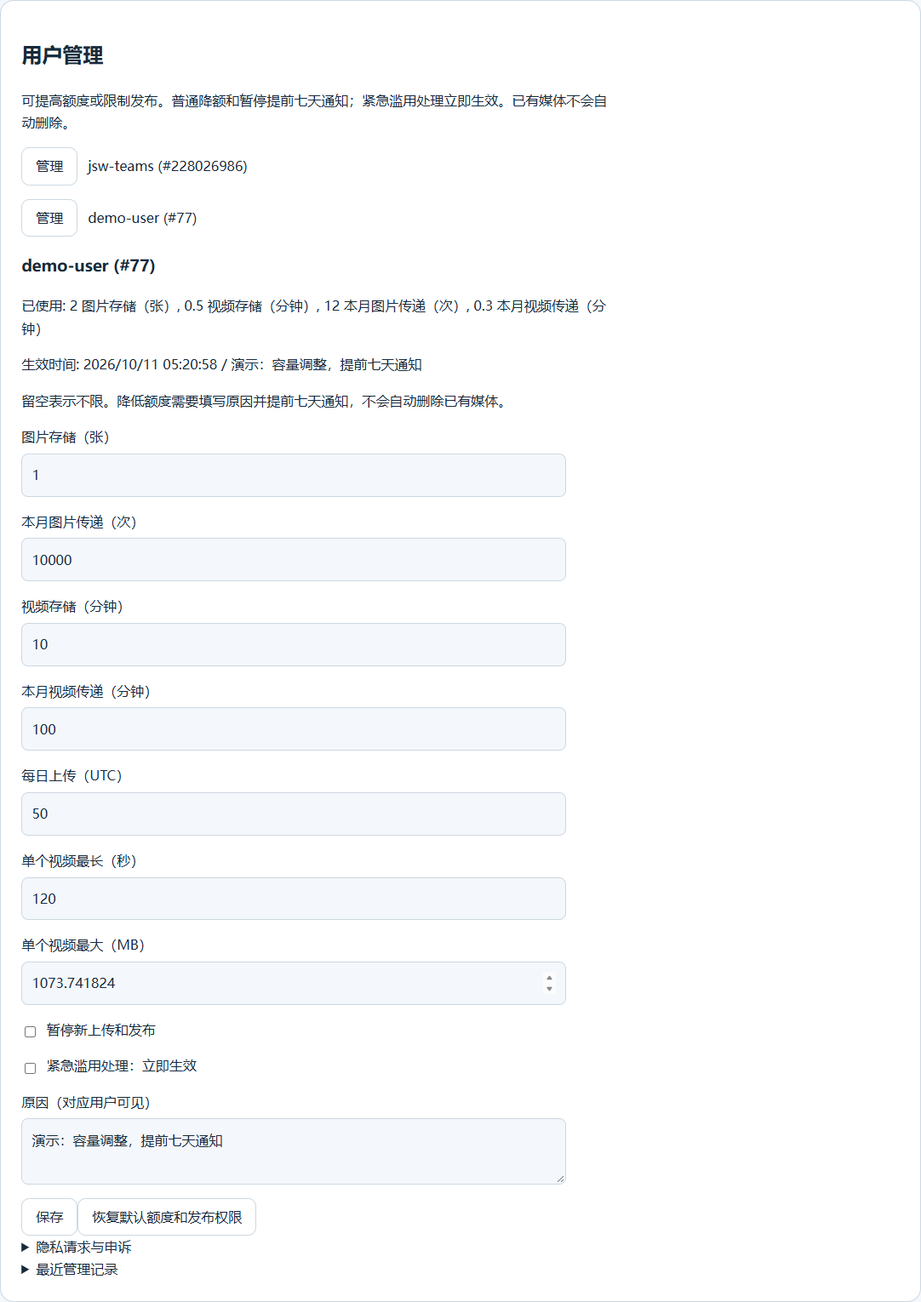
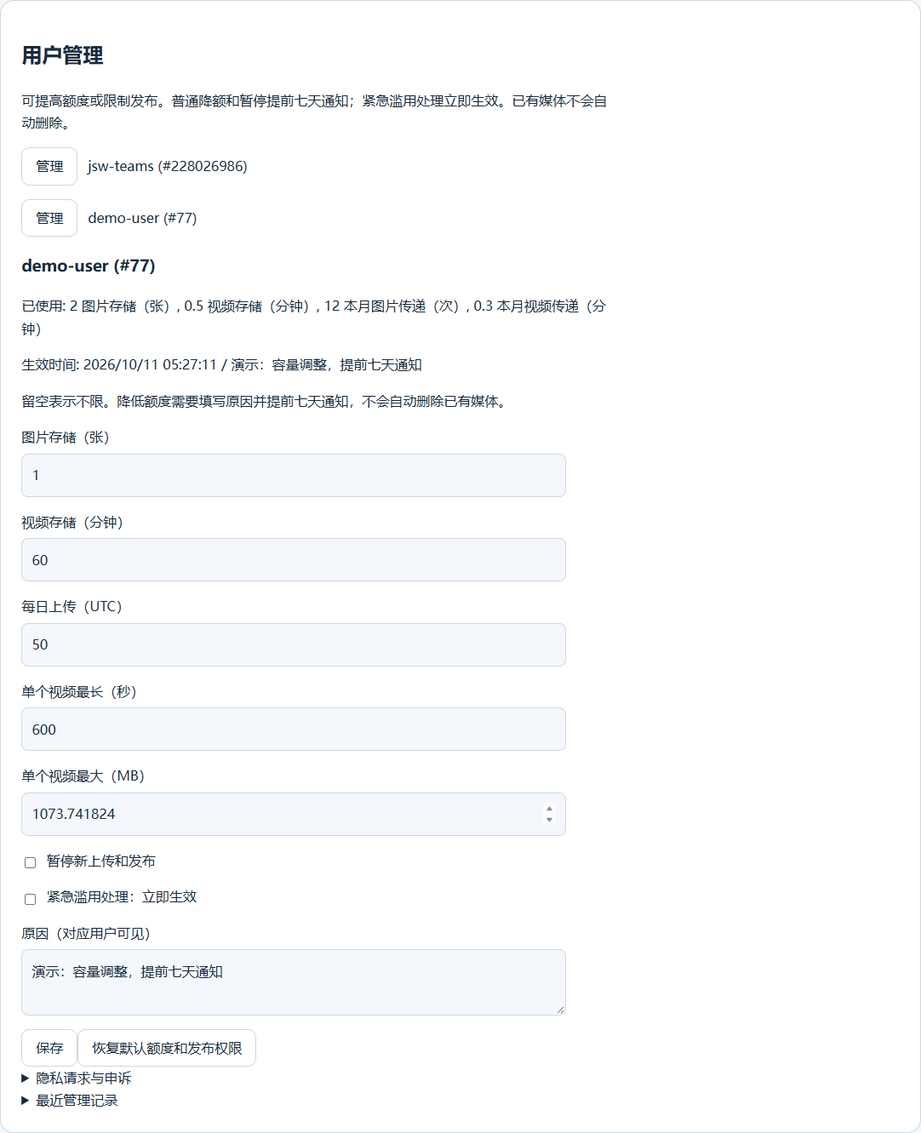
Allow ordinary delivery and increase personal media storage quotas

Changed region(s): [[0.0, 0.0308, 0.671, 0.9857], [0.5185, 0.2156, 0.6405, 0.2772]]

diff --git a/static/privacy.html b/static/privacy.html
@@ -1,1 +1,1 @@
-<!doctype html><html lang="zh-CN"><head><meta charset="utf-8"><meta name="viewport" content="width=device-width,initial-scale=1"><title>隐私 | ishare</title><link rel="stylesheet" href="{{style}}"></head><body><a class="skip" href="#main">跳至正文</a><header class="topbar"><a class="brand" href="/">ishare</a></header><main id="main" class="panel"><h1>隐私与分享</h1><p>发布需要 GitHub 登录。本站保存 GitHub 数字用户 ID、用户名与显示名称以确认发布与删除权限，不索取 GitHub 邮箱或代码仓库权限。GitHub 身份不代表已核实来源网站所有权。</p><p>图片、视频、标题、配文、作者与填写的来源页面会公开显示。请勿上传没有分享权利或包含不应公开信息的媒体。浏览者可以下载或另行转载公开内容。</p><p>媒体存储与编码由 Cloudflare Images / Stream 处理。上传文件时，浏览器会向 Cloudflare 的一次性上传地址发送媒体和必要网络信息；分享与播放使用本站媒体地址。</p><p>登录凭据使用安全的 HttpOnly Cookie，最长一天，到期或退出后失效。OAuth 状态最长十分钟且只能使用一次。服务为限制滥用使用短期哈希限流记录，不将 IP 原值保存为公开媒体资料。未完成的已知上传保留至清理任务删除，通常在一天后清理；无法确认上游是否完成的上传需管理员核对。</p><p>发布者可在媒体列表删除自己发布的内容。管理员可以移除违规内容。已缓存的公开媒体最长还可能显示五分钟；其他网站自行保存的副本不受本站控制。每日限额所需的删除记录最多保留三十天，不保留媒体字节。管理记录与已答复隐私请求最长保存九十天；账户删除完成时会提前清除关联个人资料。</p><p>额度按图片存储张数、每月图片传递次数、视频储存时长与每月视频传递时长分别计算；预加载和重复请求会消耗传递额度。降低额度或普通暂停需要明确原因并提前七天站内通知，紧急滥用可立即暂停新上传与发布，均不会自动删除既有媒体。暂停发布仍可导出 JSON 资料、删除本人媒体或账户、申请更正及人工复核。导出不包含原始视频文件。</p><p>隐私请求在后台显示一个日历月的答复期限，需要运营者实际处理。账户删除会立即停止已知媒体的公开访问，随后删除上游媒体、账户与关联个人记录；上游失败会重试，无法确认的上传需人工核对。未完成时会标为正在删除，不自动认定删除成功。</p><p>为提供你请求的登录、发布与分享服务，我们处理必要的身份与媒体资料；最小限度的限流和管理记录用于防止滥用。GitHub 与 Cloudflare 按各自政策处理必要网络信息，服务可能在全球节点处理数据。你可要求查阅、更正、删除或限制处理、提出异议，并联系适用的数据保护监管机构。运营者需要依据适用地区法律履行告知、供应商安排与权利请求处理义务。</p><p>本机只保存语言选择，不含广告或统计追踪。嵌入网站应在访客同意且请求查看后加载本站媒体。</p><p>管理者：JS.GRIPE。隐私与内容移除请求请在登录后的“我的数据与权利”提交，或邮件联系 <a href="mailto:helper@js.gripe">helper@js.gripe</a>，无需在公开问题页提供私人资料。</p><h2 lang="en">English</h2><p lang="en">ishare uses your numeric GitHub identity, username and display name for publishing and ownership. Published media and attribution are public. Files upload directly to Cloudflare; viewing uses this site's proxy. Session cookies expire after one day, OAuth state after ten minutes. You can delete your own media; cached copies can remain for up to five minutes. Public media can be downloaded and copied. Quotas distinguish image counts, image deliveries, stored video duration and delivered segment duration. Ordinary reductions are announced seven days in advance; urgent abuse restrictions do not remove export, deletion or appeal rights. Account erasure stops known public media, removes provider resources and then scrubs personal records; failed removals remain pending. Privacy requests have a calendar-month response deadline and need actual operator review. Identifiable administration and answered request records expire after ninety days, earlier on completed account erasure. Contact JS.GRIPE at helper@js.gripe. No advertising or analytics are included.</p></main></body></html>
+<!doctype html><html lang="zh-CN"><head><meta charset="utf-8"><meta name="viewport" content="width=device-width,initial-scale=1"><title>隐私 | ishare</title><link rel="stylesheet" href="{{style}}"></head><body><a class="skip" href="#main">跳至正文</a><header class="topbar"><a class="brand" href="/">ishare</a></header><main id="main" class="panel"><h1>隐私与分享</h1><p>发布需要 GitHub 登录。本站保存 GitHub 数字用户 ID、用户名与显示名称以确认发布与删除权限，不索取 GitHub 邮箱或代码仓库权限。GitHub 身份不代表已核实来源网站所有权。</p><p>图片、视频、标题、配文、作者与填写的来源页面会公开显示。请勿上传没有分享权利或包含不应公开信息的媒体。浏览者可以下载或另行转载公开内容。</p><p>媒体存储与编码由 Cloudflare Images / Stream 处理。上传文件时，浏览器会向 Cloudflare 的一次性上传地址发送媒体和必要网络信息；分享与播放使用本站媒体地址。</p><p>登录凭据使用安全的 HttpOnly Cookie，最长一天，到期或退出后失效。OAuth 状态最长十分钟且只能使用一次。服务为限制滥用使用短期哈希限流记录，不将 IP 原值保存为公开媒体资料。未完成的已知上传保留至清理任务删除，通常在一天后清理；无法确认上游是否完成的上传需管理员核对。</p><p>发布者可在媒体列表删除自己发布的内容。管理员可以移除违规内容。已缓存的公开媒体最长还可能显示五分钟；其他网站自行保存的副本不受本站控制。每日限额所需的删除记录最多保留三十天，不保留媒体字节。管理记录与已答复隐私请求最长保存九十天；账户删除完成时会提前清除关联个人资料。</p><p>额度按图片存储张数、每月图片传递次数、视频储存时长与每月视频传递时长分别计算；图片传递次数与视频传递时长用于后台用量统计，不设置常规传递额度；预加载和重复请求也会记入统计。降低额度或普通暂停需要明确原因并提前七天站内通知，紧急滥用可立即暂停新上传与发布，均不会自动删除既有媒体。暂停发布仍可导出 JSON 资料、删除本人媒体或账户、申请更正及人工复核。导出不包含原始视频文件。</p><p>隐私请求在后台显示一个日历月的答复期限，需要运营者实际处理。账户删除会立即停止已知媒体的公开访问，随后删除上游媒体、账户与关联个人记录；上游失败会重试，无法确认的上传需人工核对。未完成时会标为正在删除，不自动认定删除成功。</p><p>为提供你请求的登录、发布与分享服务，我们处理必要的身份与媒体资料；最小限度的限流和管理记录用于防止滥用。GitHub 与 Cloudflare 按各自政策处理必要网络信息，服务可能在全球节点处理数据。你可要求查阅、更正、删除或限制处理、提出异议，并联系适用的数据保护监管机构。运营者需要依据适用地区法律履行告知、供应商安排与权利请求处理义务。</p><p>本机只保存语言选择，不含广告或统计追踪。嵌入网站应在访客同意且请求查看后加载本站媒体。</p><p>管理者：JS.GRIPE。隐私与内容移除请求请在登录后的“我的数据与权利”提交，或邮件联系 <a href="mailto:helper@js.gripe">helper@js.gripe</a>，无需在公开问题页提供私人资料。</p><h2 lang="en">English</h2><p lang="en">ishare uses your numeric GitHub identity, username and display name for publishing and ownership. Published media and attribution are public. Files upload directly to Cloudflare; viewing uses this site's proxy. Session cookies expire after one day, OAuth state after ten minutes. You can delete your own media; cached copies can remain for up to five minutes. Public media can be downloaded and copied. Storage quotas distinguish image counts and stored video duration; image deliveries and delivered segment duration are monitored without ordinary viewer quotas. Ordinary reductions are announced seven days in advance; urgent abuse restrictions do not remove export, deletion or appeal rights. Account erasure stops known public media, removes provider resources and then scrubs personal records; failed removals remain pending. Privacy requests have a calendar-month response deadline and need actual operator review. Identifiable administration and answered request records expire after ninety days, earlier on completed account erasure. Contact JS.GRIPE at helper@js.gripe. No advertising or analytics are included.</p></main></body></html>

diff --git a/backend/cloudflare/store.js b/backend/cloudflare/store.js
@@ -42,7 +42,7 @@ export class Repository {
   setAccount(owner,change,actor,ownerId,now,base) {return this.atomic(()=>{if(owner===ownerId)fail('owner_protected',409);const row=this.activate(owner,now);if(!row)fail('not_found',404);const current={...base,...JSON.parse(row.policy)},next=change.reset?{}:{...JSON.parse(row.policy),...change.limits},target={...base,...next},blocked=change.blocked===undefined?!!row.blocked:change.blocked;const reducing=(blocked&&!row.blocked)||Object.keys(current).some(key=>target[key]!==null&&(current[key]===null||target[key]<current[key]));const effective=reducing&&!change.urgent?now+604800:now;this.sql.exec('UPDATE users SET policy=?,blocked=?,note=?,updated=?,pending=?,effective=? WHERE id=?',effective>now?row.policy:JSON.stringify(next),effective>now?row.blocked:Number(blocked),change.note,now,effective>now?JSON.stringify({limits:next,blocked}):null,effective>now?effective:null,owner);this.sql.exec('INSERT INTO audit(actor,target,changes,created) VALUES (?,?,?,?)',actor,owner,JSON.stringify({...change,effective}),now);return {ok:true,effective};});}
   audit() {return [...this.sql.exec('SELECT actor,target,changes,created FROM audit ORDER BY id DESC LIMIT 50')].map(row=>({...row,changes:JSON.parse(row.changes)}));}
   assertPublisher(owner,ownerId) {const row=this.activate(owner,Math.floor(Date.now()/1000));if(row?.erasing||(owner!==ownerId&&row?.blocked))fail('publishing_suspended',403);}
-  delivery(owner,kind,amount,base,ownerId,globalMax,now) {return this.atomic(()=>{if(owner===ownerId)return;const user=this.account(owner,base,ownerId,now),month=new Date(now*1000).toISOString().slice(0,7),key='delivery:'+kind+':'+owner+':'+month,global='delivery:'+kind+':all:'+month,max=kind==='image'?user.limits.imageDeliveries:user.limits.videoDeliverySeconds,scale=kind==='image'?1:1000,n=Math.ceil(amount*scale);if(exceeds((this.one('SELECT count FROM limits WHERE id=?',key)?.count||0)+n,max===null?null:max*scale)||exceeds((this.one('SELECT count FROM limits WHERE id=?',global)?.count||0)+n,globalMax*scale))fail('delivery_quota',429);for(const k of [key,global])this.sql.exec('INSERT INTO limits VALUES (?,?,?) ON CONFLICT(id) DO UPDATE SET count=count+excluded.count',k,n,now+5356800);});}
+  delivery(owner,kind,amount,now) {return this.atomic(()=>{const month=new Date(now*1000).toISOString().slice(0,7),scale=kind==='image'?1:1000,n=Math.ceil(amount*scale);for(const key of ['delivery:'+kind+':'+owner+':'+month,'delivery:'+kind+':all:'+month])this.sql.exec('INSERT INTO limits VALUES (?,?,?) ON CONFLICT(id) DO UPDATE SET count=count+excluded.count',key,n,now+5356800);});}
   rights(owner){return [...this.sql.exec('SELECT * FROM rights WHERE owner=? ORDER BY created DESC LIMIT 100',owner)];}
   requestRight(owner,kind,message,now){return this.atomic(()=>{const id=random(),due=monthDue(now);this.sql.exec("INSERT INTO rights(id,owner,kind,message,state,created,due) VALUES (?,?,?,?,'open',?,?)",id,owner,kind,message,now,due);return {id,due};});}
   rightsQueue(){return [...this.sql.exec("SELECT * FROM rights WHERE state='open' ORDER BY due LIMIT 100")];}

diff --git a/static/app.js b/static/app.js
@@ -40,7 +40,7 @@ async function refresh(){
   try{session=await api('session');document.querySelector('#login').hidden=!session.loginAvailable||!!session.user;document.querySelector('#logout').hidden=!session.user;
     document.querySelector('#identity').textContent=session.user?'@'+session.user.login:'';
     form.querySelector('fieldset').disabled=!session.canPublish||(!session.imagesAvailable&&!session.videosAvailable)||!!controller;
-    document.querySelector('#limits').textContent=session.user?(session.account.unlimited?t('unlimited'):t('images')+': '+session.account.usage.images+' / '+(session.account.limits.images??t('unlimited'))+'; '+t('videoSeconds')+': '+(session.account.usage.videoSeconds/60).toFixed(1)+' / '+(session.account.limits.videoSeconds===null?t('unlimited'):session.account.limits.videoSeconds/60)+'; '+t('imageDeliveries')+': '+session.account.usage.imageDeliveries+' / '+(session.account.limits.imageDeliveries??t('unlimited'))+'; '+t('videoDeliverySeconds')+': '+(session.account.usage.videoDeliverySeconds/60).toFixed(1)+' / '+(session.account.limits.videoDeliverySeconds===null?t('unlimited'):session.account.limits.videoDeliverySeconds/60)):'';
+    document.querySelector('#limits').textContent=session.user?(session.account.unlimited?t('unlimited'):t('images')+': '+session.account.usage.images+' / '+(session.account.limits.images??t('unlimited'))+'; '+t('videoSeconds')+': '+(session.account.usage.videoSeconds/60).toFixed(1)+' / '+(session.account.limits.videoSeconds===null?t('unlimited'):session.account.limits.videoSeconds/60)):'';
     if(session.user){const data=await api('list');items=data.items;next=data.next;render(items);}else{items=[];next=null;render(items);}
     document.querySelector('#more').hidden=!next;management.update(session);rights.update(session);
     const accountNotice=document.querySelector('#account-notice');accountNotice.hidden=!session.account?.note&&!session.account?.erasing;accountNotice.textContent=session.account?.erasing?t('erasePending'):(session.account?.note||'')+(session.account?.notice?' / '+t('scheduled')+': '+new Date(session.account.notice.effective*1000).toLocaleString():'');

diff --git a/backend/cloudflare/service.js b/backend/cloudflare/service.js
@@ -1,4 +1,4 @@
-import { ServiceError, fail, origin, https, text, number, id, random, digest, jsonBody, json } from './security.js';
+import { ServiceError, fail, origin, https, text, number, id, digest, jsonBody, json } from './security.js';
 import { authReady, readSession, requireSite, requireCsrf, authorize, callback, logout } from './auth.js';
 import { provider, resourceConfiguration } from './provider.js';
 import { publicRecord, oembed, shareId, renderPage } from './views.js';
@@ -97,7 +97,7 @@ export async function handle(request,env,context,{requestProvider=fetch,requestG
       const sourceUrl=body.sourceUrl?https(body.sourceUrl).href:'';
       const title=text(body.title,200),caption=text(body.caption,5000,true),sourceName=text(body.sourceName,120,true);
       const applicationId=crypto.randomUUID().replaceAll('-','');
-      const item=await store.reserve({id:applicationId,owner:session.user.id,author:session.user,kind:body.kind,title,caption,sourceUrl,sourceName,bytes,mime:body.mime,duration},{defaults:base,ownerId:env.OWNER_GITHUB_ID,images:number(env.MAX_IMAGES,1000,100000),videoSeconds:number(env.MAX_VIDEO_SECONDS,3600,10000000),daily:number(env.MAX_UPLOADS_PER_DAY,500,10000)},now);
+      const item=await store.reserve({id:applicationId,owner:session.user.id,author:session.user,kind:body.kind,title,caption,sourceUrl,sourceName,bytes,mime:body.mime,duration},{defaults:base,ownerId:env.OWNER_GITHUB_ID,images:number(env.MAX_IMAGES,10000,100000),videoSeconds:number(env.MAX_VIDEO_SECONDS,36000,10000000),daily:number(env.MAX_UPLOADS_PER_DAY,500,10000)},now);
       try{const grant=await upstream.create(item,now);await store.attach(applicationId,grant.providerId,grant.uploadUrl,now);return json({id:applicationId,uploadUrl:grant.uploadUrl,protocol:grant.protocol},201);}catch(error){if(error.safeToRelease)await store.failed(applicationId);else await store.uncertain(applicationId);throw error;}
     }
     const mediaId=id(resource(request)),item=await store.get(mediaId);

diff --git a/backend/cloudflare/delivery.js b/backend/cloudflare/delivery.js
@@ -1,6 +1,5 @@
 import { b64, unb64, digest, fail, headers } from './security.js';
 import { imageAddress, videoAddress } from './provider.js';
-import { defaults } from './quotas.js';
 const encoder=new TextEncoder();
 async function key(secret){return crypto.subtle.importKey('raw',unb64(secret),'AES-GCM',false,['encrypt','decrypt']);}
 export function upstreamUrl(value,base,env) {
@@ -57,7 +56,7 @@ export async function deliver(request,env,item,resource,store,context,{requestUp
   }
   const range=request.headers.get('range');if(range&&!/^bytes=\d+-\d*$/.test(range))fail('invalid_range',416);
   if(request.method==='HEAD')return new Response(null,{headers:headers({'Content-Type':manifest?'application/vnd.apple.mpegurl':item.kind==='image'?item.mime||'image/jpeg':'application/octet-stream','Cache-Control':'no-store'},true)});
-  if(request.method!=='HEAD'&&(item.kind==='image'||upstream.ishareSeconds>0))await store.delivery(item.owner,item.kind,item.kind==='image'?1:upstream.ishareSeconds,defaults(env),env.OWNER_GITHUB_ID,Number(item.kind==='image'?env.MAX_IMAGE_DELIVERIES||100000:env.MAX_VIDEO_DELIVERY_SECONDS||60000),now);
+  if(item.kind==='image'||upstream.ishareSeconds>0)await store.delivery(item.owner,item.kind,item.kind==='image'?1:upstream.ishareSeconds,now);
   // Internal cache identities omit expiring signatures; upstream content is immutable per media ID.
   const path=item.kind==='video'?upstream.pathname.split('/').slice(2).join('/')+'?'+upstream.searchParams.toString():'blob';
   const cacheKey=new Request(new URL('/__ishare-cache/'+item.id+'/'+await digest(path),env.SITE_ORIGIN));

diff --git a/backend/cloudflare/quotas.js b/backend/cloudflare/quotas.js
@@ -1,13 +1,13 @@
 import { fail } from './security.js';
 
-export const quotaFields=['images','imageDeliveries','videoSeconds','videoDeliverySeconds','dailyUploads','videoDuration','videoBytes'];
+export const quotaFields=['images','videoSeconds','dailyUploads','videoDuration','videoBytes'];
 export function defaults(env={}) {
-  const values={images:300,imageDeliveries:10000,videoSeconds:600,videoDeliverySeconds:6000,dailyUploads:50,videoDuration:120,videoBytes:1_073_741_824};
+  const values={images:1000,videoSeconds:3600,dailyUploads:50,videoDuration:600,videoBytes:1_073_741_824};
   for(const key of quotaFields)if(env['QUOTA_'+key]!==undefined){const n=Number(env['QUOTA_'+key]);if(!Number.isSafeInteger(n)||n<0)fail('invalid_configuration',503);values[key]=n;}
   return values;
 }
 export function policy(record,base,owner=false) {
-  return {blocked:owner?false:!!record?.blocked,unlimited:owner,limits:owner?Object.fromEntries(quotaFields.map(k=>[k,null])):{...base,...JSON.parse(record?.policy||'{}')}};
+  const saved=JSON.parse(record?.policy||'{}');return {blocked:owner?false:!!record?.blocked,unlimited:owner,limits:owner?Object.fromEntries(quotaFields.map(k=>[k,null])):Object.fromEntries(quotaFields.map(k=>[k,Object.hasOwn(saved,k)?saved[k]:base[k]]))};
 }
 export function accountId(value){if(typeof value!=='string'||! /^[1-9][0-9]{0,19}$/.test(value))fail('invalid_user');return value;}
 export function changes(body){

diff --git a/static/admin.js b/static/admin.js
@@ -1,4 +1,4 @@
-const fields=[['images',1],['imageDeliveries',1],['videoSeconds',60],['videoDeliverySeconds',60],['dailyUploads',1],['videoDuration',1],['videoBytes',1_000_000]];
+const fields=[['images',1],['videoSeconds',60],['dailyUploads',1],['videoDuration',1],['videoBytes',1_000_000]];
 export function adminPanel({api,t,notice,refresh}){
   const root=document.querySelector('#admin'),users=document.querySelector('#admin-users'),editor=document.querySelector('#admin-editor'),more=document.querySelector('#admin-more');
   let active=false,cursor=null,isOwner=false;

diff --git a/docs/operations.md b/docs/operations.md
@@ -4,19 +4,19 @@
 
 | Application field | Ordinary-user default | Unit / reset |
 | --- | ---: | --- |
-| `images` | 300 | Stored image count; released after provider deletion succeeds |
-| `imageDeliveries` | 10,000 | Image responses requested from ishare, UTC calendar month |
-| `videoSeconds` | 600 | Stored/reserved video seconds, displayed as minutes |
-| `videoDeliverySeconds` | 6,000 | Requested HLS segment duration, displayed as minutes, UTC calendar month |
+| `images` | 1,000 | Stored image count; released after provider deletion succeeds |
+| `imageDeliveries` usage | No delivery cap | Image responses requested from ishare, UTC calendar month; operator monitoring only |
+| `videoSeconds` | 3,600 | Stored/reserved video seconds, displayed as minutes |
+| `videoDeliverySeconds` usage | No delivery cap | Requested HLS segment duration, displayed as minutes, UTC calendar month; operator monitoring only |
 | `dailyUploads` | 50 | Upload grants reserved per UTC day |
-| `videoDuration` | 120 | Maximum seconds per new video |
+| `videoDuration` | 600 | Maximum seconds per new video |
 | `videoBytes` | 1,073,741,824 | Maximum bytes per new video; a protocol limit, not a storage billing unit |
 
 Image count and video duration control storage costs. File byte size is shown as metadata and validated for uploads; it is not presented as the primary storage quota. Pending video grants reserve their maximum duration before contacting Stream. Publication replaces the reservation with the provider's rounded-up actual seconds. Unknown allocation outcomes retain reservations for operator reconciliation rather than generating duplicate resources.
 
-Image requests count once; HLS playlists, encryption keys, initialization data and HEAD probes do not count as video playback. Each media segment uses its authenticated playlist duration; replay, buffering, retries, range requests and parallel quality/audio tracks conservatively consume corresponding duration. Browser-cached requests never reaching ishare do not increment counters. Worker cache hits do increment user sharing usage. Failed requests can retain a delivery reservation. These conservative application counters are not a replacement for the Cloudflare bill, which measures its own delivery requests. Resource-account traffic outside ishare cannot be controlled by these counters. No API billing bypass or fixed currency ceiling is promised.
+Image requests count once; HLS playlists, encryption keys, initialization data and HEAD probes do not count as video playback. Each media segment uses its authenticated playlist duration; replay, buffering, retries, range requests and parallel quality/audio tracks conservatively record corresponding duration. Browser-cached requests never reaching ishare do not increment counters. Worker cache hits do increment user sharing usage. Failed requests can retain a delivery reservation. These conservative application counters are not a replacement for the Cloudflare bill, which measures its own delivery requests. Resource-account traffic outside ishare cannot be controlled by these counters. No API billing bypass or fixed currency ceiling is promised.
 
-The default shared non-operator budgets are 1,000 stored images, 3,600 stored/reserved video seconds, 500 uploads/day, 100,000 image deliveries/month, and 60,000 video delivery seconds/month. Operator resources and their delivery are excluded. Increase these alongside individual limits when capacity permits. Null individual limits mean unlimited; zero prevents that kind of new use. Lowering storage below current use preserves existing resources and blocks further allocation after the grace period.
+The default shared non-operator budgets are 10,000 stored images, 36,000 stored/reserved video seconds, and 500 uploads/day. Delivery counts and durations are monitored without per-user or shared delivery quota enforcement. Personal sites can share normally; storage ceilings, verified identities, allocation frequency and human abuse management bound resource stockpiling. These controls do not claim to prevent coordinated abuse using multiple real accounts. Operator resources and their delivery are excluded. Increase these alongside individual limits when capacity permits. Null individual limits mean unlimited; zero prevents that kind of new use. Lowering storage below current use preserves existing resources and blocks further allocation after the grace period.
 
 Private viewing uses the image blob API and signed Stream playback behind the proxy. Existing Images variants configured with `neverRequireSignedURLs: true` still bypass Cloudflare image signatures when someone knows their provider URL. ishare does not change another application's variants. Proxying hides upstream addresses from ordinary viewing; it cannot revoke an independently public provider URL or prevent a publisher from redistributing media.
 

diff --git a/README.md b/README.md
@@ -33,11 +33,11 @@ GitHub login needs `GITHUB_CLIENT_ID`, `GITHUB_CLIENT_SECRET` and callback `http
 
 ## Quotas and administration
 
-The ordinary-user defaults are 300 images stored, 10,000 images delivered per UTC month, 10 video minutes stored, 100 video minutes delivered per UTC month, 50 uploads per UTC day, 120 seconds per video, and 1 GiB per video. These are application policy defaults, not a Cloudflare free tier. The operator is exempt from all application quotas, including global application budgets. Provider upload/encoding limits still apply: Images accepts at most 10 MB and Stream files must be below 30 GB.
+The ordinary-user defaults are 1,000 images stored, 60 video minutes stored, 50 uploads per UTC day, 10 minutes per video, and 1 GiB per video. Image delivery counts and delivered video duration are operator monitoring metrics, with no ordinary-user delivery caps. These are application policy defaults, not a Cloudflare free tier. The operator is exempt from all application quotas, including global application budgets. Provider upload/encoding limits still apply: Images accepts at most 10 MB and Stream files must be below 30 GB.
 
 After operator login, **User management** appears on the homepage. Select a user to increase individual limits, leave limits blank for unlimited, suspend publishing, restore defaults, inspect media, or remove an individual item. All quota and permission changes require a user-visible reason. Ordinary reductions and suspension receive seven days of notice; explicit urgent abuse restrictions apply immediately. Existing content is not deleted by quota changes. Export, deletion and privacy requests remain available while publishing is suspended.
 
-Global non-operator budgets are configured with `MAX_IMAGES`, `MAX_VIDEO_SECONDS`, `MAX_UPLOADS_PER_DAY`, `MAX_IMAGE_DELIVERIES`, and `MAX_VIDEO_DELIVERY_SECONDS`; per-user defaults may be configured using `QUOTA_` followed by the documented field name. A user-specific increase remains subject to the shared non-operator budget. See [operations](docs/operations.md) for exact accounting, caching and privacy procedures.
+Global non-operator storage and allocation budgets are configured with `MAX_IMAGES`, `MAX_VIDEO_SECONDS`, and `MAX_UPLOADS_PER_DAY`; per-user defaults may be configured using `QUOTA_` followed by the documented field name. A user-specific increase remains subject to the shared non-operator budget. See [operations](docs/operations.md) for exact accounting, caching and privacy procedures.
 
 ## Website integration
 

diff --git a/AGENTS.md b/AGENTS.md
@@ -8,5 +8,5 @@
 - Media delivery must proxy private upstream resources without redirects, provider IDs, customer subdomains or signed upstream URLs in public responses. Rewrite every HLS resource reference using authenticated opaque tickets; fail closed on unsupported manifest syntax and untrusted destinations.
 - Keep upstreams private and signing keys server-side. Public delivery is shareable, not DRM. Cache hashed assets for one year, and bound media caching so deletion has a documented propagation window.
 - Never claim live upload, playback, account configuration or deployment validation unless actually performed. Remove genuinely unused code and preserve unrelated user edits.
-- Track image storage counts, image delivery counts, stored video seconds and delivered HLS segment seconds separately. File bytes are upload metadata, not the media storage billing quota. Identify the operator by verified numeric GitHub ID and exempt the operator from all application quotas and shared budgets.
+- Track image storage counts, image delivery counts, stored video seconds and delivered HLS segment seconds separately. Restrict stored images/videos and allocation frequency, not ordinary image delivery or playback; delivery dimensions are operator monitoring metrics. File bytes are upload metadata, not the media storage billing quota. Identify the operator by verified numeric GitHub ID and exempt the operator from all application quotas and shared budgets.
 - Administrative quota and permission changes need user-visible reasons. Ordinary reductions use seven days of notice without deleting existing media; urgent abuse restrictions are explicit and preserve access to export, erasure and human review. Rights requests use calendar-month response deadlines; never describe technical support as certified GDPR compliance or claim erasure complete before provider cleanup.
